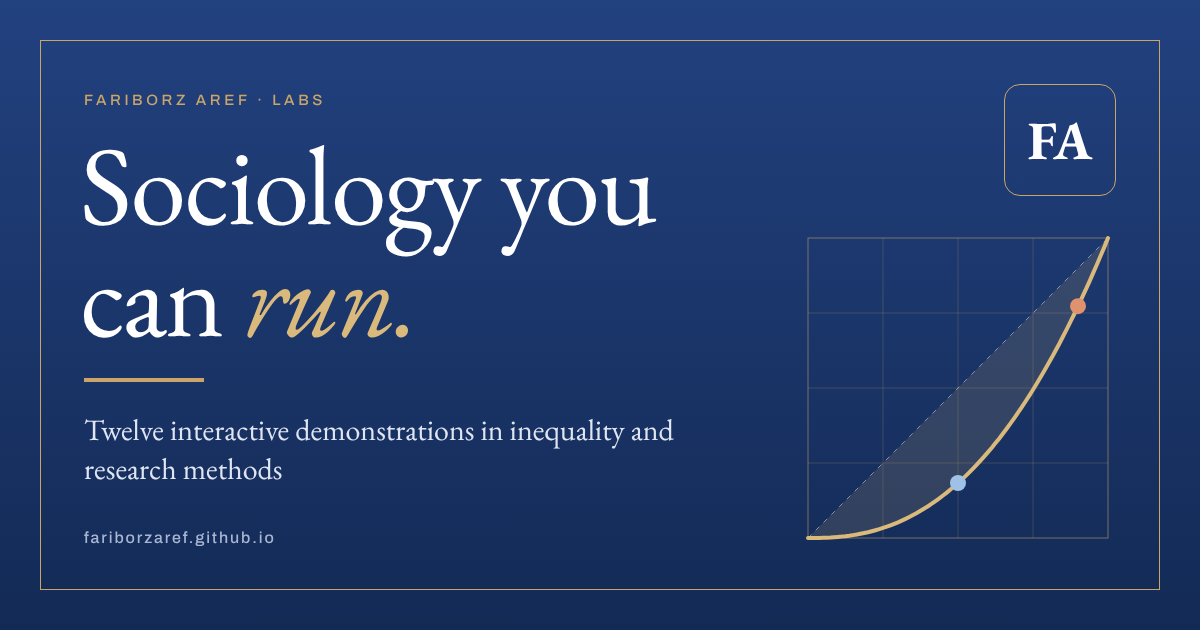
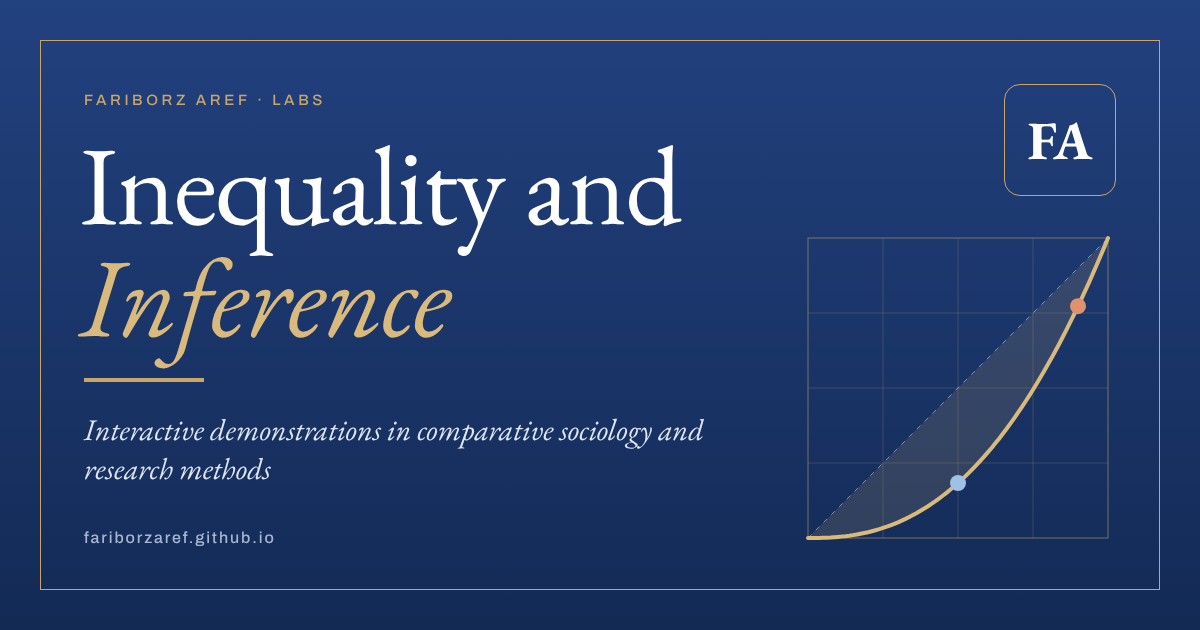
Add files via upload

Changed region(s): [[0.0617, 0.2111, 0.5858, 0.4222], [0.0617, 0.6635, 0.5858, 0.7841], [0.0617, 0.4222, 0.4008, 0.6032]]

diff --git a/index.html b/index.html
@@ -11,15 +11,15 @@
 
   <meta property="og:type" content="website">
   <meta property="og:site_name" content="Fariborz Aref · Labs">
-  <meta property="og:title" content="Sociology you can run · Fariborz Aref Labs">
+  <meta property="og:title" content="Inequality and Inference · Fariborz Aref Labs">
   <meta property="og:description" content="Interactive demonstrations in inequality and research methods by sociologist Fariborz Aref: the Inequality Lab and the Methods Lab, built on published data and simulation.">
   <meta property="og:url" content="https://fariborzaref.github.io/">
   <meta property="og:image" content="https://fariborzaref.github.io/og-image.png">
   <meta property="og:image:width" content="1200">
   <meta property="og:image:height" content="630">
-  <meta property="og:image:alt" content="Fariborz Aref Labs: Sociology you can run.">
+  <meta property="og:image:alt" content="Fariborz Aref Labs: Inequality and Inference.">
   <meta name="twitter:card" content="summary_large_image">
-  <meta name="twitter:title" content="Sociology you can run · Fariborz Aref Labs">
+  <meta name="twitter:title" content="Inequality and Inference · Fariborz Aref Labs">
   <meta name="twitter:description" content="Interactive demonstrations in inequality and research methods by sociologist Fariborz Aref: the Inequality Lab and the Methods Lab, built on published data and simulation.">
   <meta name="twitter:image" content="https://fariborzaref.github.io/og-image.png">
 
@@ -32,8 +32,8 @@
   <link rel="preconnect" href="https://fonts.googleapis.com">
   <link rel="preconnect" href="https://fonts.gstatic.com" crossorigin>
   <link href="https://fonts.googleapis.com/css2?family=EB+Garamond:ital,wght@0,400;0,500;1,400;1,500&family=Archivo:wght@400;500;600&display=swap" rel="stylesheet">
-  <link rel="stylesheet" href="labs.css?v=2">
-  <script src="labs.js?v=2"></script>
+  <link rel="stylesheet" href="labs.css?v=3">
+  <script src="labs.js?v=3"></script>
 
   <script async src="https://www.googletagmanager.com/gtag/js?id=G-S437KK8JX4"></script>
   <script>
@@ -86,7 +86,8 @@
       <section class="hero home-hero">
         <div>
           <p class="kicker">Labs &middot; Fariborz Aref</p>
-          <h1>Sociology you can <em>run.</em></h1>
+          <h1>Inequality and <em>Inference</em></h1>
+          <p class="deck">Interactive demonstrations in comparative sociology and research methods</p>
           <p class="lead">Two labs that turn central ideas of sociology into models you can run. The Inequality Lab works with published data on income, wealth, and welfare states. The Methods Lab uses simulation to show how sound calculations lead to unsound conclusions.</p>
           <p class="lead soft">They are written for students, colleagues, and anyone who wants to see an argument work rather than take it on trust.</p>
           <div class="hero-actions">
@@ -211,7 +212,7 @@
     <div class="foot-inner rich">
       <div class="foot-grid">
         <div>
-          <p class="foot-brand">Sociology you can <em>run.</em></p>
+          <p class="foot-brand">Inequality and <em>Inference</em></p>
           <p class="foot-lede">Interactive demonstrations in inequality and research method, built on published data and simulation.</p>
         </div>
         <div>

diff --git a/inequality.html b/inequality.html
@@ -29,8 +29,8 @@
   <link rel="preconnect" href="https://fonts.googleapis.com">
   <link rel="preconnect" href="https://fonts.gstatic.com" crossorigin>
   <link href="https://fonts.googleapis.com/css2?family=EB+Garamond:ital,wght@0,400;0,500;1,400;1,500&family=Archivo:wght@400;500;600&display=swap" rel="stylesheet">
-  <link rel="stylesheet" href="labs.css?v=2">
-  <script src="labs.js?v=2"></script>
+  <link rel="stylesheet" href="labs.css?v=3">
+  <script src="labs.js?v=3"></script>
 
   <script async src="https://www.googletagmanager.com/gtag/js?id=G-S437KK8JX4"></script>
   <script>
@@ -82,7 +82,7 @@
     <div class="wrap">
       <section class="hero">
         <p class="kicker">Vol. I &middot; The Inequality Lab</p>
-        <h1>How the world's advantages are <em>distributed.</em></h1>
+        <h1>The Distribution of <em>Advantage</em></h1>
         <p class="lead">Five demonstrations, each built on published data. They follow inequality from the circumstances of birth, through the measurement of income and wealth, to the policies that reshape it and the history that produced it.</p>
         <p class="lead soft">Every figure is sourced at the foot of the page. Where a chart simplifies, the note beneath it says how.</p>
         <dl class="meta">
@@ -311,7 +311,7 @@
     <div class="foot-inner rich">
       <div class="foot-grid">
         <div>
-          <p class="foot-brand">Sociology you can <em>run.</em></p>
+          <p class="foot-brand">Inequality and <em>Inference</em></p>
           <p class="foot-lede">Interactive demonstrations in inequality and research method, built on published data and simulation.</p>
         </div>
         <div>
@@ -345,7 +345,7 @@
     })();
     if ('serviceWorker' in navigator) { window.addEventListener('load', function () { navigator.serviceWorker.register('sw.js').catch(function () {}); }); }
   </script>
-  <script src="inequality.js?v=2"></script>
+  <script src="inequality.js?v=3"></script>
 
 </body>
 </html>

diff --git a/methods.html b/methods.html
@@ -29,8 +29,8 @@
   <link rel="preconnect" href="https://fonts.googleapis.com">
   <link rel="preconnect" href="https://fonts.gstatic.com" crossorigin>
   <link href="https://fonts.googleapis.com/css2?family=EB+Garamond:ital,wght@0,400;0,500;1,400;1,500&family=Archivo:wght@400;500;600&display=swap" rel="stylesheet">
-  <link rel="stylesheet" href="labs.css?v=2">
-  <script src="labs.js?v=2"></script>
+  <link rel="stylesheet" href="labs.css?v=3">
+  <script src="labs.js?v=3"></script>
 
   <script async src="https://www.googletagmanager.com/gtag/js?id=G-S437KK8JX4"></script>
   <script>
@@ -82,7 +82,7 @@
     <div class="wrap">
       <section class="hero">
         <p class="kicker">Vol. II &middot; The Methods Lab</p>
-        <h1>How a claim is <em>earned.</em></h1>
+        <h1>The Conditions of Valid <em>Inference</em></h1>
         <p class="lead">Seven demonstrations of places where a correct calculation leads to a wrong conclusion. In each, the error lies in the design or the reading of the analysis, and the arithmetic is fine.</p>
         <p class="lead soft">All use simulated data, so the true answer is known in advance. The last three take their settings from published comparative research on OECD countries.</p>
         <dl class="meta">
@@ -385,7 +385,7 @@
     <div class="foot-inner rich">
       <div class="foot-grid">
         <div>
-          <p class="foot-brand">Sociology you can <em>run.</em></p>
+          <p class="foot-brand">Inequality and <em>Inference</em></p>
           <p class="foot-lede">Interactive demonstrations in inequality and research method, built on published data and simulation.</p>
         </div>
         <div>
@@ -419,7 +419,7 @@
     })();
     if ('serviceWorker' in navigator) { window.addEventListener('load', function () { navigator.serviceWorker.register('sw.js').catch(function () {}); }); }
   </script>
-  <script src="methods.js?v=2"></script>
+  <script src="methods.js?v=3"></script>
 
 </body>
 </html>

diff --git a/404.html b/404.html
@@ -30,8 +30,8 @@
   <link rel="preconnect" href="https://fonts.googleapis.com">
   <link rel="preconnect" href="https://fonts.gstatic.com" crossorigin>
   <link href="https://fonts.googleapis.com/css2?family=EB+Garamond:ital,wght@0,400;0,500;1,400;1,500&family=Archivo:wght@400;500;600&display=swap" rel="stylesheet">
-  <link rel="stylesheet" href="labs.css?v=2">
-  <script src="labs.js?v=2"></script>
+  <link rel="stylesheet" href="labs.css?v=3">
+  <script src="labs.js?v=3"></script>
 
   <script async src="https://www.googletagmanager.com/gtag/js?id=G-S437KK8JX4"></script>
   <script>
@@ -82,8 +82,8 @@
 
     <div class="wrap">
       <section class="nf">
-        <p class="kicker">Error 404 &middot; Page not found</p>
-        <h1>This page is not in the <em>sample.</em></h1>
+        <p class="kicker">Error 404</p>
+        <h1>Page not <em>found</em></h1>
         <p class="lead">The address may have changed, or the page may never have existed. Every demonstration is one step away.</p>
         <div class="controls"><a class="btn" href="./">Labs home</a><a class="btn ghost" href="inequality">Inequality Lab</a><a class="btn ghost" href="methods">Methods Lab</a></div>
       </section>
@@ -94,7 +94,7 @@
     <div class="foot-inner rich">
       <div class="foot-grid">
         <div>
-          <p class="foot-brand">Sociology you can <em>run.</em></p>
+          <p class="foot-brand">Inequality and <em>Inference</em></p>
           <p class="foot-lede">Interactive demonstrations in inequality and research method, built on published data and simulation.</p>
         </div>
         <div>

diff --git a/courses.html b/courses.html
@@ -29,8 +29,8 @@
   <link rel="preconnect" href="https://fonts.googleapis.com">
   <link rel="preconnect" href="https://fonts.gstatic.com" crossorigin>
   <link href="https://fonts.googleapis.com/css2?family=EB+Garamond:ital,wght@0,400;0,500;1,400;1,500&family=Archivo:wght@400;500;600&display=swap" rel="stylesheet">
-  <link rel="stylesheet" href="labs.css?v=2">
-  <script src="labs.js?v=2"></script>
+  <link rel="stylesheet" href="labs.css?v=3">
+  <script src="labs.js?v=3"></script>
 
   <script async src="https://www.googletagmanager.com/gtag/js?id=G-S437KK8JX4"></script>
   <script>
@@ -329,7 +329,7 @@
     <div class="foot-inner rich">
       <div class="foot-grid">
         <div>
-          <p class="foot-brand">Sociology you can <em>run.</em></p>
+          <p class="foot-brand">Inequality and <em>Inference</em></p>
           <p class="foot-lede">Interactive demonstrations in inequality and research method, built on published data and simulation.</p>
         </div>
         <div>

diff --git a/labs.css b/labs.css
@@ -607,3 +607,4 @@ body { transition: background-color 0.3s ease, color 0.3s ease; }
 }
 a.btn { text-decoration: none; }
 .numbers b, .inst-read b, .inst-head, .stat-val, .meta dd { font-feature-settings: "kern" 1, "lnum" 1, "tnum" 1; }
+.deck { font-style: italic; font-size: clamp(1.3rem, 2vw, 1.6rem); line-height: 1.35; color: var(--ink-soft); margin: -0.4rem 0 1.8rem; max-width: 34rem; }

diff --git a/README.md b/README.md
@@ -1,6 +1,6 @@
 # Fariborz Aref · Labs
 
-**Sociology you can run.** Twelve interactive demonstrations in inequality and research methods, published at https://fariborzaref.github.io/.
+**Inequality and Inference.** Twelve interactive demonstrations in inequality and research methods, published at https://fariborzaref.github.io/.
 
 | Page | Contents |
 |---|---|
